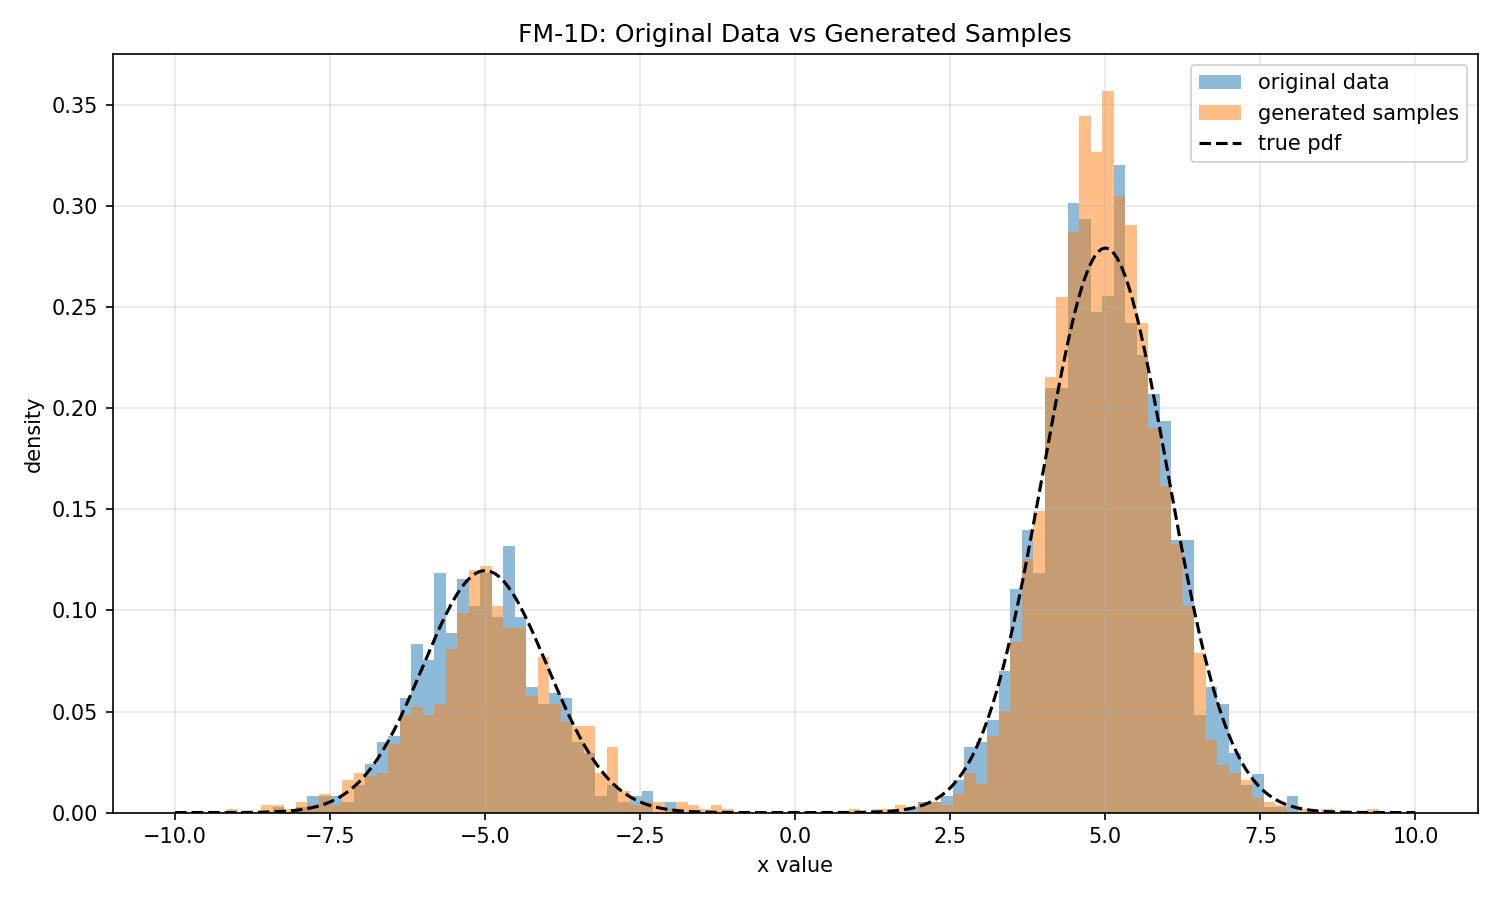
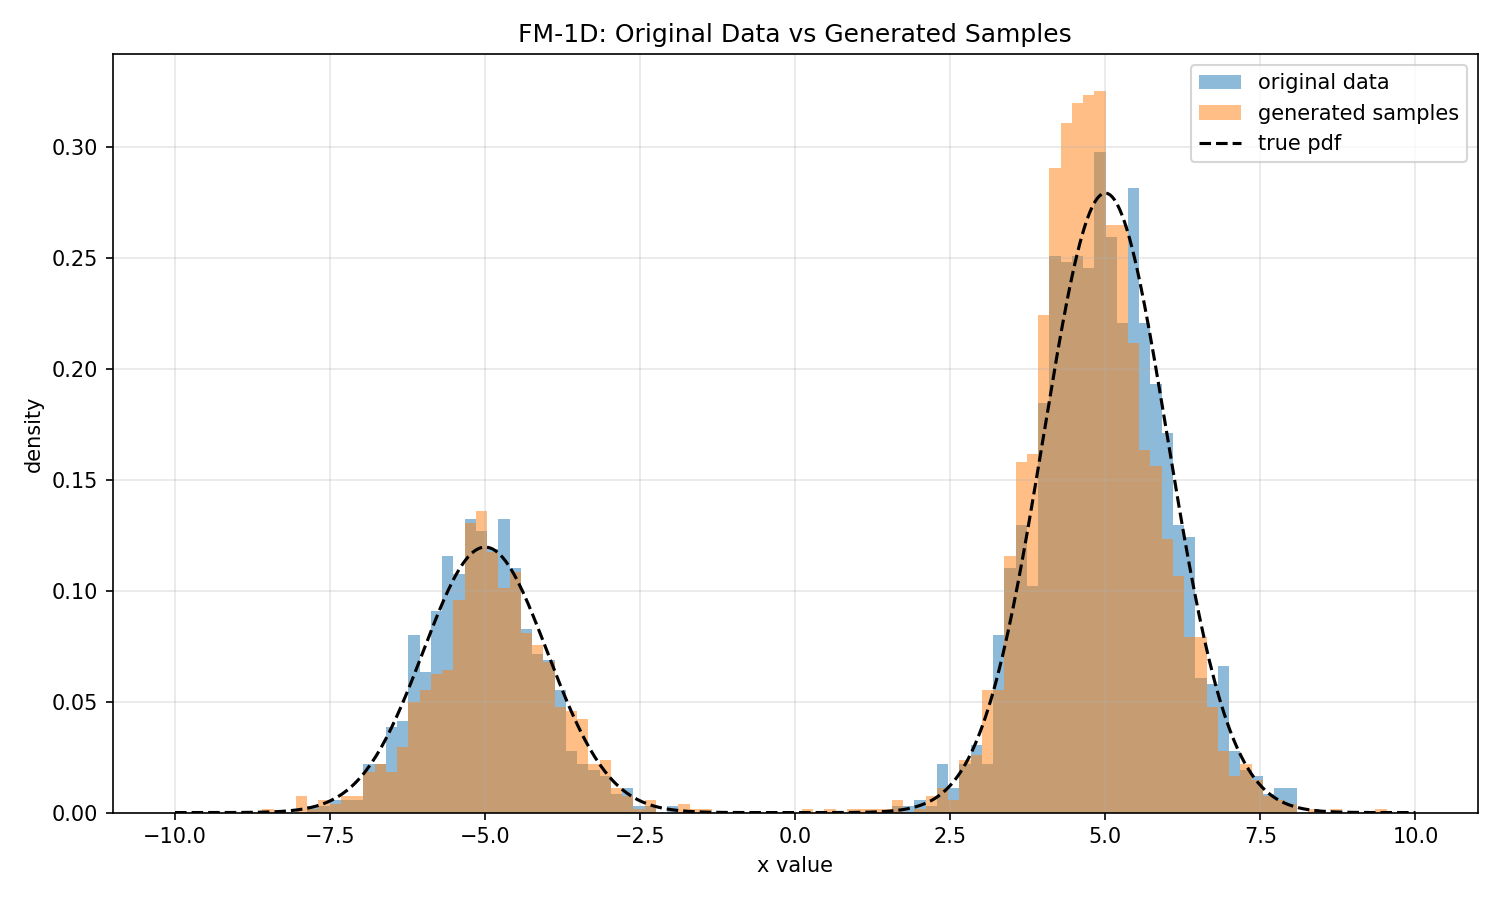
Second commit on Nov 13 2026

diff --git a/Code/Data/data_creators.py b/Code/Data/data_creators.py
@@ -9,9 +9,8 @@
 #   * Creators only GENERATE data: they return RAW data (no train/test split,
 #     no standardization) and do no file IO. Those are done by data_loaders.py.
 #   * Algorithm code must NOT import this module; use data_loaders.py.
-#   * Randomness uses a local np.random.RandomState(seed); the global NumPy
-#     random state is never touched.
-#     (Exception: the 1D Gaussian mixture seeds the global torch RNG.)
+#   * Randomness uses a local np.random.RandomState(seed) (NumPy) or
+#     torch.Generator (torch); the global RNG states are never touched.
 #
 # Label convention: binary labels are {0, 1} with positives (1) listed first.
 
@@ -23,16 +22,16 @@ import torch
 ##############################################################################
 
 
-def _generate_gaussian_points(rng, means, covs, num_samples_per_distribution):
+def _generate_gaussian_points(means, covs, num_samples_per_distribution, rng):
     """
     Generate points from several Gaussian distributions, one block per distribution.
 
     Args:
-        rng: a np.random.RandomState
         means: sequence of num_distributions mean vectors of length num_features
         covs: sequence of num_distributions covariance matrices,
             each of shape (num_features, num_features)
         num_samples_per_distribution: sequence of num_distributions positive integers
+        rng: a np.random.RandomState
 
     Returns:
         samples: shape (sum(num_samples_per_distribution), num_features)
@@ -45,10 +44,13 @@ def _generate_gaussian_points(rng, means, covs, num_samples_per_distribution):
     )
 
 
-def _generate_polar_points(rng, radius_min, radius_max, num_samples):
+def _generate_polar_points(radius_min, radius_max, num_samples, rng):
     """
     Generate 2D points with radius sampled uniformly in [radius_min, radius_max]
     and angle uniformly in [0, 2*pi).
+
+    Args:
+        rng: a np.random.RandomState
 
     Returns:
         points: shape (num_samples, 2)
@@ -80,7 +82,7 @@ def create_gaussians_binary_data(seed):
     means = [[2, 5], [3, -2]]  # positive, negative
     covs = [[[1, -1], [-1, 3]], [[1, 0.5], [0.5, 2]]]
 
-    instances = _generate_gaussian_points(rng, means, covs, [110, 110])
+    instances = _generate_gaussian_points(means, covs, [110, 110], rng)
     return instances, _binary_labels(110, 110)
 
 
@@ -100,16 +102,16 @@ def create_jigsaw_binary_data(seed):
 
     cov = [[1.5, 0.3], [0.3, 1.5]]
     pos_instances = _generate_gaussian_points(
-        rng,
         jigsaw_pos_means,
         [cov] * len(jigsaw_pos_means),
         [55] * len(jigsaw_pos_means),
+        rng,
     )
     neg_instances = _generate_gaussian_points(
-        rng,
         jigsaw_neg_means,
         [cov] * len(jigsaw_neg_means),
         [55] * len(jigsaw_neg_means),
+        rng,
     )
     instances = np.vstack((pos_instances, neg_instances))
     return instances, _binary_labels(110, 110)
@@ -125,8 +127,8 @@ def create_circle_binary_data(seed):
     """
     rng = np.random.RandomState(seed)
 
-    inner_instances = _generate_polar_points(rng, 0, 2, 110)
-    outer_instances = _generate_polar_points(rng, 4, 6, 110)
+    inner_instances = _generate_polar_points(0, 2, 110, rng)
+    outer_instances = _generate_polar_points(4, 6, 110, rng)
     instances = np.vstack((inner_instances, outer_instances))
     return instances, _binary_labels(110, 110)
 
@@ -170,7 +172,7 @@ def create_gaussians_clustering_data(seed):
     covs = np.array([[[1, 0], [0, 1]], [[2, -1.5], [-1.5, 2]], [[3, 1], [1, 2]]])
     num_samples_per_cluster = [440, 550, 110]
 
-    samples = _generate_gaussian_points(rng, means, covs, num_samples_per_cluster)
+    samples = _generate_gaussian_points(means, covs, num_samples_per_cluster, rng)
     labels = np.repeat(np.arange(len(means)), num_samples_per_cluster)
     return samples, labels
 
@@ -180,9 +182,33 @@ def create_gaussians_clustering_data(seed):
 ##############################################################################
 
 
+def create_gaussian_mixture_1d_data(num_samples, seed, device="cpu"):
+    """
+    Sample from the 1D Gaussian mixture using a local torch.Generator
+    (the global torch RNG is not touched).
+
+    Returns:
+        data: tensor of shape (num_samples, 1)
+    """
+    generator = torch.Generator(device=device).manual_seed(seed)
+
+    weights = torch.tensor([0.3, 0.7], device=device)
+    means = torch.tensor([-5.0, 5.0], device=device)
+    stds = torch.tensor([1.0, 1.0], device=device)
+
+    components = torch.multinomial(
+        weights, num_samples, replacement=True, generator=generator
+    )
+    noise = torch.randn(num_samples, device=device, generator=generator)
+    data = means[components] + stds[components] * noise
+    return data.reshape(num_samples, 1)
+
+
 def gaussian_mixture_1d_distribution(device="cpu"):
     """
     Target two-component 1D Gaussian mixture (30% at -5, 70% at +5, std 1).
+    Used for the analytic density and score; sampling is done separately in
+    create_gaussian_mixture_1d_data.
 
     Returns:
         distribution: a torch.distributions.MixtureSameFamily
@@ -194,18 +220,6 @@ def gaussian_mixture_1d_distribution(device="cpu"):
             torch.tensor([1.0, 1.0], device=device),
         ),
     )
-
-
-def create_gaussian_mixture_1d_data(num_samples, seed, device="cpu"):
-    """
-    Sample from the 1D Gaussian mixture. Note: seeds the global torch RNG
-    (torch.distributions has no per-call generator argument).
-
-    Returns:
-        data: tensor of shape (num_samples, 1)
-    """
-    torch.manual_seed(seed)
-    return gaussian_mixture_1d_distribution(device=device).sample((num_samples, 1))
 
 
 def gaussian_mixture_1d_pdf(x):

diff --git a/Code/Data/data_loaders.py b/Code/Data/data_loaders.py
@@ -35,6 +35,7 @@ from sklearn.datasets import (
 )
 from sklearn.model_selection import train_test_split
 from torchvision import datasets, transforms
+from torch.utils.data import DataLoader
 
 from . import data_creators as dc
 
@@ -388,7 +389,6 @@ def gaussian_mixture_1d_score(x):
 
 def _mnist_dataset(train, tanh_range=False):
     """MNIST torchvision dataset, downloaded to DATA_DIR if missing."""
- 
     steps = [transforms.ToTensor()]
     if tanh_range:
         steps.append(transforms.Normalize((0.5,), (0.5,)))  # pixels -> [-1, 1]
@@ -410,7 +410,6 @@ def load_mnist_classification_data(batch_size):
     Returns:
         tuple: (training_loader, test_loader)
     """
-    from torch.utils.data import DataLoader
 
     training_loader = DataLoader(
         _mnist_dataset(train=True), batch_size=batch_size, shuffle=True
@@ -433,7 +432,6 @@ def load_mnist_generation_data(batch_size, tanh_range=False):
     Returns:
         training_loader: DataLoader
     """
-    from torch.utils.data import DataLoader
 
     return DataLoader(
         _mnist_dataset(train=True, tanh_range=tanh_range),
